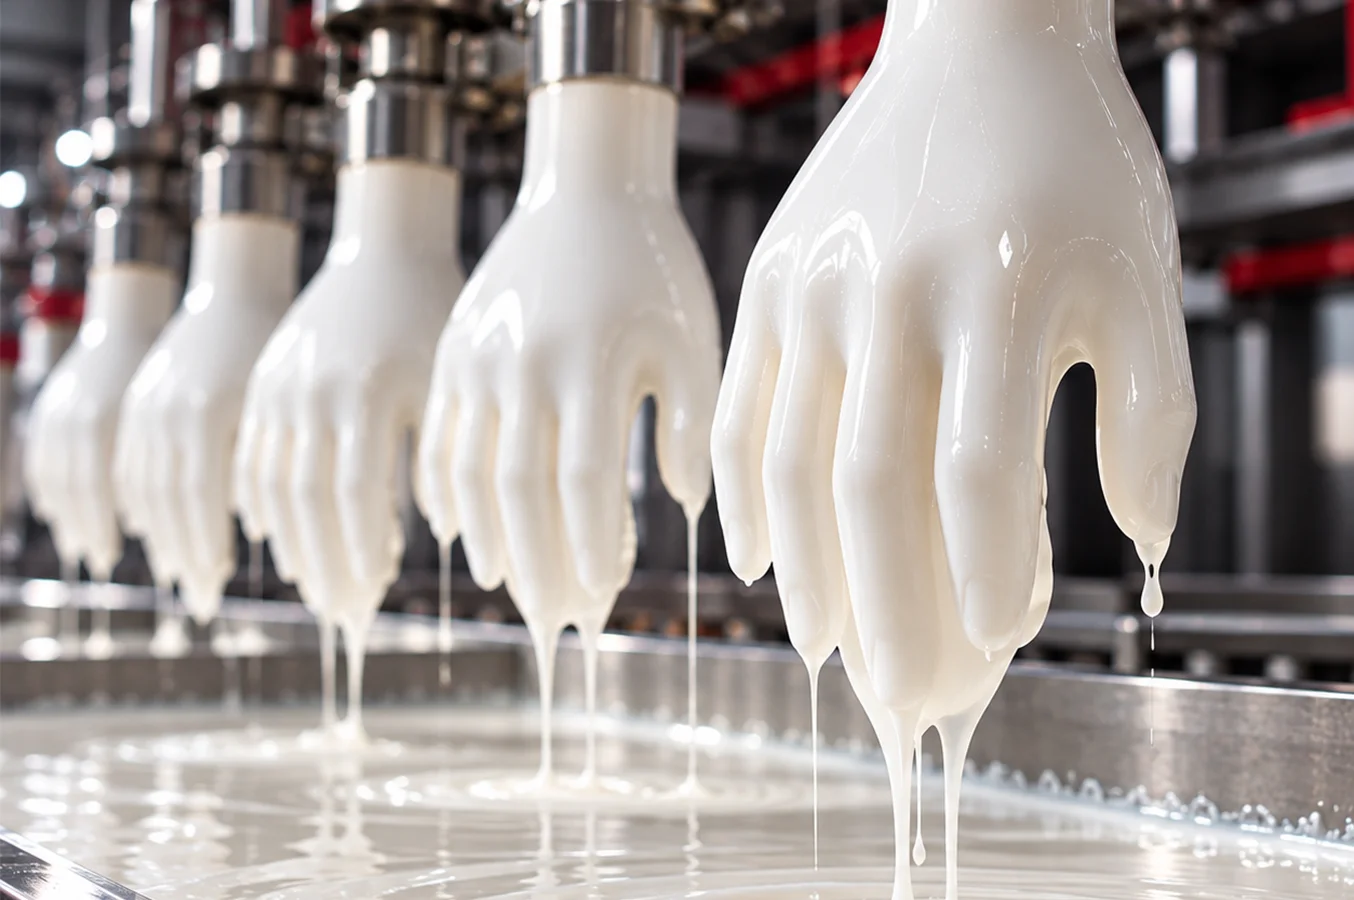
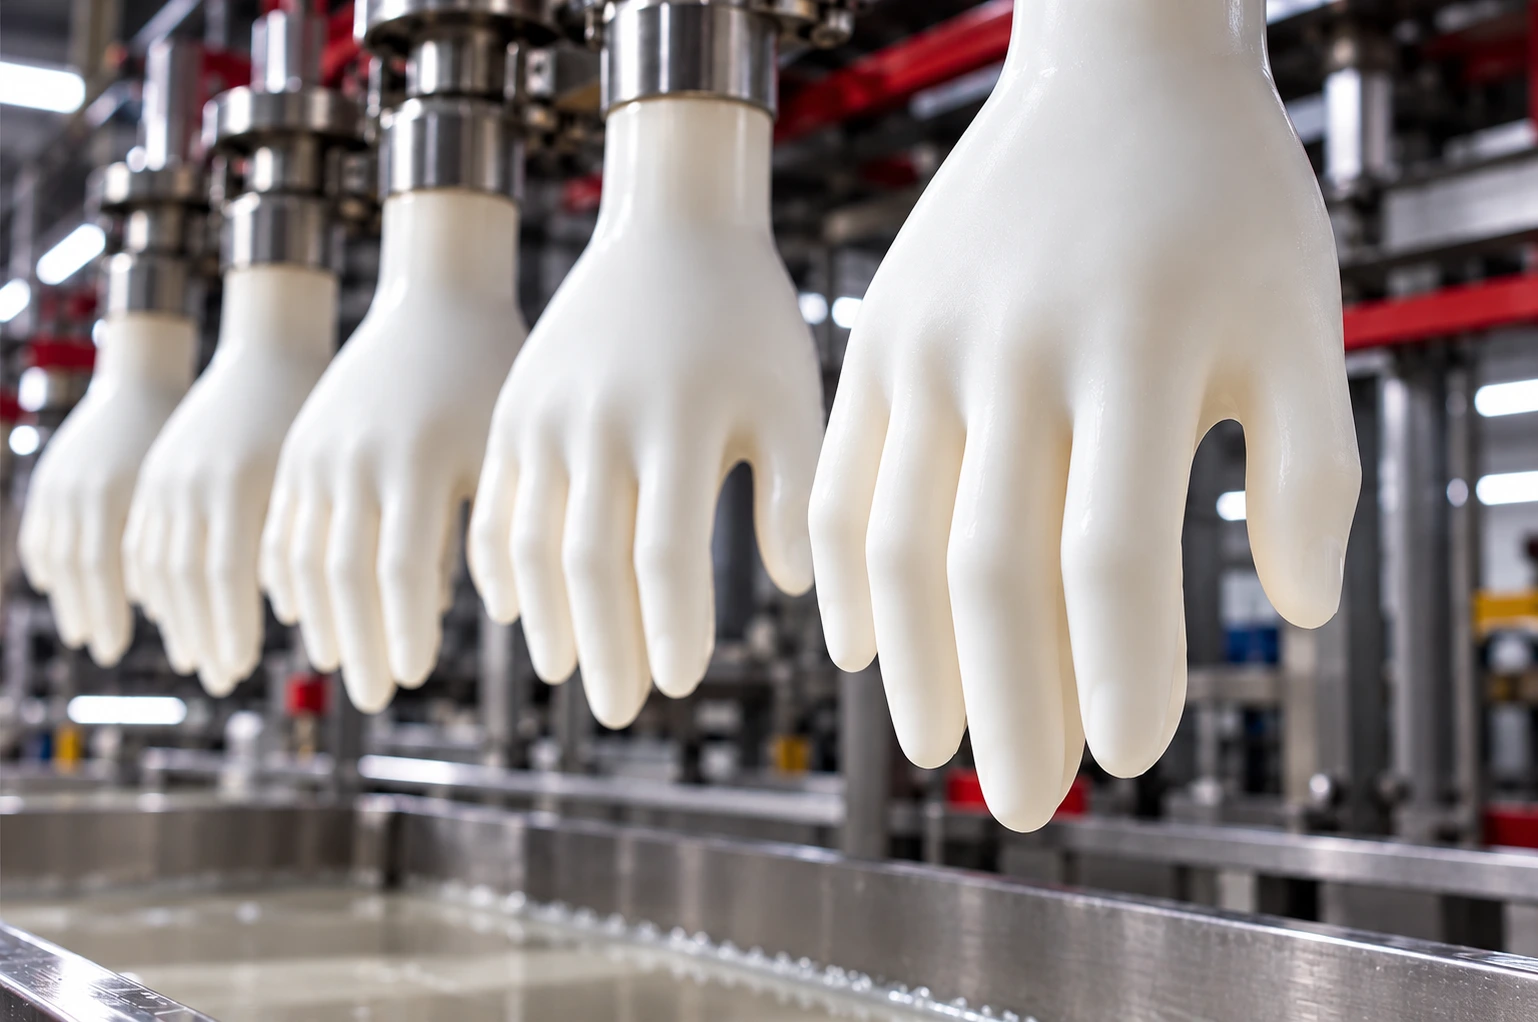
feat: add contact-us section, layout, and sitemap components

diff --git a/app/sitemap.ts b/app/sitemap.ts
@@ -1,0 +1,145 @@
+import type { MetadataRoute } from 'next';
+import ProductService from './utils/ProductService';
+import { getBlogs } from './utils/BlogService';
+
+export const revalidate = 86400; // Revalidate daily
+
+export default async function sitemap(): Promise<MetadataRoute.Sitemap> {
+  const baseUrl = (process.env.NEXT_PUBLIC_SITE_URL || 'https://www.merchem.com').replace(/\/+$/, '');
+  const now = new Date();
+
+  // 1. Core static routes
+  const staticRoutes: MetadataRoute.Sitemap = [
+    {
+      url: `${baseUrl}`,
+      lastModified: now,
+      changeFrequency: 'daily',
+      priority: 1.0,
+    },
+    {
+      url: `${baseUrl}/about-us`,
+      lastModified: now,
+      changeFrequency: 'monthly',
+      priority: 0.8,
+    },
+    {
+      url: `${baseUrl}/products`,
+      lastModified: now,
+      changeFrequency: 'weekly',
+      priority: 0.9,
+    },
+    {
+      url: `${baseUrl}/blog`,
+      lastModified: now,
+      changeFrequency: 'weekly',
+      priority: 0.8,
+    },
+    {
+      url: `${baseUrl}/contact-us`,
+      lastModified: now,
+      changeFrequency: 'monthly',
+      priority: 0.8,
+    },
+  ];
+
+  // 2. Dynamic Product Categories and Subcategories
+  const productRoutes: MetadataRoute.Sitemap = [];
+  try {
+    const catalogueResponse = await ProductService.getProductCatalogue();
+    if (catalogueResponse?.success && Array.isArray(catalogueResponse.data)) {
+      for (const category of catalogueResponse.data) {
+        if (!category.slug) continue;
+
+        // Category page
+        productRoutes.push({
+          url: `${baseUrl}/products/${category.slug}`,
+          lastModified: now,
+          changeFrequency: 'weekly',
+          priority: 0.8,
+        });
+
+        // Subcategory pages
+        if (Array.isArray(category.subcategories)) {
+          for (const subcategory of category.subcategories) {
+            if (!subcategory.slug) continue;
+            productRoutes.push({
+              url: `${baseUrl}/products/${category.slug}/${subcategory.slug}`,
+              lastModified: now,
+              changeFrequency: 'weekly',
+              priority: 0.7,
+            });
+          }
+        }
+      }
+    }
+  } catch (error) {
+    console.error('Failed to load catalogue for sitemap, falling back to static defaults:', error);
+    // Fallback static categories
+    const fallbackCategories = [
+      {
+        slug: 'rubber-accelerators',
+        subcategories: ['thiazoles', 'sulphenamides', 'thiurams', 'dithiocarbamates', 'special-purpose'],
+      },
+      {
+        slug: 'rubber-antioxidants-antidegredants',
+        subcategories: [],
+      },
+      {
+        slug: 'rubber-processing-aids',
+        subcategories: [],
+      },
+      {
+        slug: 'water-treatment-chemicals',
+        subcategories: [],
+      },
+      {
+        slug: 'agrochemicals',
+        subcategories: [],
+      },
+    ];
+
+    for (const cat of fallbackCategories) {
+      productRoutes.push({
+        url: `${baseUrl}/products/${cat.slug}`,
+        lastModified: now,
+        changeFrequency: 'weekly',
+        priority: 0.8,
+      });
+      for (const sub of cat.subcategories) {
+        productRoutes.push({
+          url: `${baseUrl}/products/${cat.slug}/${sub}`,
+          lastModified: now,
+          changeFrequency: 'weekly',
+          priority: 0.7,
+        });
+      }
+    }
+  }
+
+  // 3. Dynamic Blogs
+  const blogRoutes: MetadataRoute.Sitemap = [];
+  try {
+    const blogsResponse = await getBlogs({ per_page: 100 });
+    if (blogsResponse?.success && Array.isArray(blogsResponse.data)) {
+      for (const blog of blogsResponse.data) {
+        if (!blog.slug) continue;
+        blogRoutes.push({
+          url: `${baseUrl}/blog/${blog.slug}`,
+          lastModified: blog.published_at ? new Date(blog.published_at) : now,
+          changeFrequency: 'weekly',
+          priority: 0.7,
+        });
+      }
+    }
+  } catch (error) {
+    console.error('Failed to load blogs for sitemap, falling back to static defaults:', error);
+    blogRoutes.push({
+      url: `${baseUrl}/blog/role-of-accelarators-in-rubber-vulcanisation`,
+      lastModified: now,
+      changeFrequency: 'weekly',
+      priority: 0.7,
+    });
+  }
+
+  return [...staticRoutes, ...productRoutes, ...blogRoutes];
+}

diff --git a/app/component/sections/contact-us/ContactForm.tsx b/app/component/sections/contact-us/ContactForm.tsx
@@ -155,20 +155,37 @@ const ContactForm = () => {
             </p>
             <div className="mt-7 space-y-5 xl:space-y-5 2xl:space-y-7">
               <ContactItem icon={FiMapPin} title="Our Office">
-                <strong className="block text-[#202020]">
-                  MERCHEM INDIA (P) LIMITED
-                </strong>
-                <span>
-                  45A Development Plot, Kalamassery, Ernakulam – 683104, Kerala,
-                  India.
-                </span>
+                <a
+                  href="https://maps.app.goo.gl/z3TJ8JxPZ38Bmuoa6"
+                  target="_blank"
+                  rel="noopener noreferrer"
+                  className="block group"
+                >
+                  <strong className="block text-[#202020] transition-colors group-hover:text-[#980E27]">
+                    MERCHEM INDIA PRIVATE LIMITED
+                  </strong>
+                  <span className="transition-colors group-hover:text-[#980E27]">
+                    45A Development Plot, Kalamassery, Ernakulam – 683104, Kerala,
+                    India.
+                  </span>
+                </a>
               </ContactItem>
               <ContactItem icon={FiPhone} title="Call Us">
-                <strong className="block text-[#202020]">0484 3510629</strong>
+                <a
+                  href="tel:+914843510629"
+                  className="block font-bold text-[#202020] transition-colors hover:text-[#980E27]"
+                >
+                  +91 4843510629
+                </a>
                 <span>For general and product enquiries.</span>
               </ContactItem>
               <ContactItem icon={FiMail} title="Email Us">
-                <strong className="block text-[#202020]">mail@merchem.com</strong>
+                <a
+                  href="mailto:mail@merchem.com"
+                  className="block font-bold text-[#202020] transition-colors hover:text-[#980E27]"
+                >
+                  mail@merchem.com
+                </a>
                 <span>Send us your questions and product requirements.</span>
               </ContactItem>
             </div>

diff --git a/app/component/sections/contact-us/ContactMap.tsx b/app/component/sections/contact-us/ContactMap.tsx
@@ -26,10 +26,22 @@ const ContactMap = () => {
             </p>
 
             <div className="mt-6 border-l-2 border-[#980E27] pl-5 text-sm leading-[1.5] text-[#474747] xl:text-[14px] 2xl:text-base">
-              <p className="font-bold text-[#202020]">Merchem India (P) Limited</p>
-              <p className="mt-1">
-                45A Development Plot, Kalamassery, Ernakulam – 683104, Kerala
-              </p>
+              <a
+                href="https://maps.app.goo.gl/z3TJ8JxPZ38Bmuoa6"
+                target="_blank"
+                rel="noopener noreferrer"
+                className="group block hover:text-[#980E27] transition-colors"
+              >
+                <p className="font-bold text-[#202020] transition-colors group-hover:text-[#980E27]">
+                  Merchem India (P) Limited
+                </p>
+                <p className="mt-1 transition-colors group-hover:text-[#980E27]">
+                  45A Development Plot, Kalamassery, Ernakulam – 683104, Kerala
+                </p>
+                <span className="mt-2 inline-flex items-center gap-1.5 text-xs font-semibold text-[#980E27] group-hover:underline">
+                  Open in Google Maps →
+                </span>
+              </a>
             </div>
           </motion.div>
 
@@ -42,7 +54,7 @@ const ContactMap = () => {
           >
             <iframe
               title="Merchem India office location"
-              src="https://www.google.com/maps?q=45A+Development+Plot,+Kalamassery,+Ernakulam,+Kerala+683104&output=embed"
+              src="https://maps.google.com/maps?q=10.0480556,76.3095833&hl=en&z=17&output=embed"
               className="h-full w-full border-0"
               loading="lazy"
               referrerPolicy="no-referrer-when-downgrade"

diff --git a/app/component/layout/Header.tsx b/app/component/layout/Header.tsx
@@ -135,11 +135,11 @@ const Header = () => {
                             <div className="h-3.5 w-[1px] bg-white/30 shrink-0" />
 
                             <a
-                                href="tel:04843510629"
+                                href="tel:+914843510629"
                                 className="flex items-center gap-2 hover:opacity-90 transition-opacity shrink-0"
                             >
                                 <GiRotaryPhone className="w-5 h-5" />
-                                <span>0484 3510629</span>
+                                <span>+91 4843510629</span>
                             </a>
 
                             {/* <div className="h-3.5 w-[1px] bg-white/30 shrink-0" /> */}
@@ -395,7 +395,7 @@ const Header = () => {
                                         <div className="w-8 h-8 rounded-full bg-white shadow-xs flex items-center justify-center text-[#980E27] shrink-0">
                                             <GiRotaryPhone className="w-4.5 h-4.5" />
                                         </div>
-                                        <span className="font-medium text-xs sm:text-sm">0484 3510629</span>
+                                        <span className="font-medium text-xs sm:text-sm">+914843510629</span>
                                     </a>
                                 </div>
 

diff --git a/app/component/layout/Footer.tsx b/app/component/layout/Footer.tsx
@@ -110,7 +110,7 @@ const Footer = () => {
             <div className="flex items-start gap-2.5">
               <FiMapPin className="w-4 h-4 text-[#980E27] shrink-0 mt-0.5" />
               <a
-                href="https://maps.app.goo.gl/XL3iRPWm8YS6ufQY6"
+                href="https://maps.app.goo.gl/z3TJ8JxPZ38Bmuoa6"
                 target="_blank"
                 rel="noopener noreferrer"
                 className="space-y-0.5 hover:text-[#980E27] transition-colors"
@@ -128,10 +128,10 @@ const Footer = () => {
             <div className="flex items-center gap-2.5">
               <GiRotaryPhone className="w-4 h-4 text-[#980E27] shrink-0" />
               <a
-                href="tel:04843510629"
+                href="tel:+914843510629"
                 className="font-bold text-[#000000] hover:text-[#980E27] transition-colors"
               >
-                0484 3510629
+                +91 4843510629
               </a>
             </div>
 

diff --git a/app/layout.tsx b/app/layout.tsx
@@ -18,6 +18,7 @@ const inter = Inter({
 });
 
 export const metadata: Metadata = {
+  metadataBase: new URL(process.env.NEXT_PUBLIC_SITE_URL || 'https://www.merchem.com'),
   title: "Merchem India | Rubber Chemicals & Specialty Chemicals",
   description: "Merchem India provides specialty chemical solutions for rubber, latex, tyres, paints and industrial applications, including accelerators, antidegradants and processing aids.",
   icons: {
